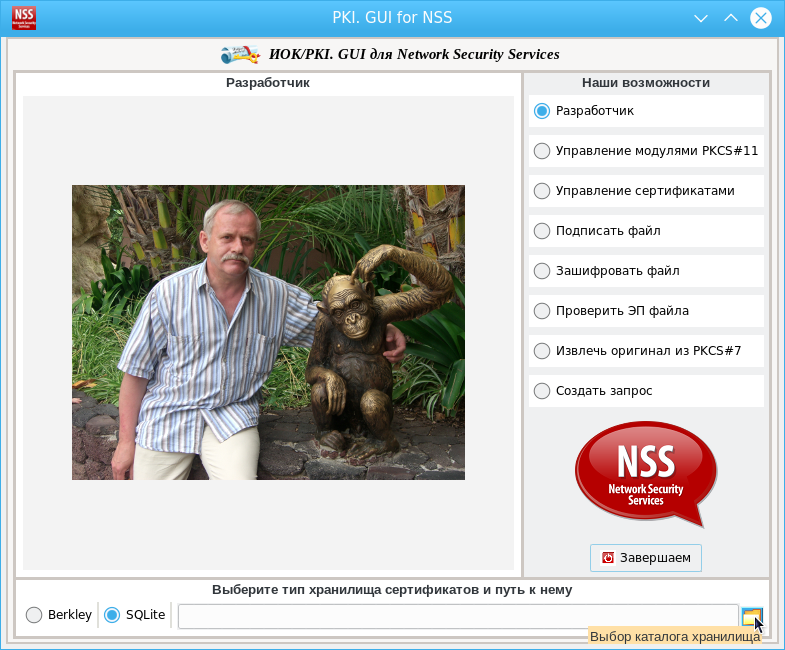
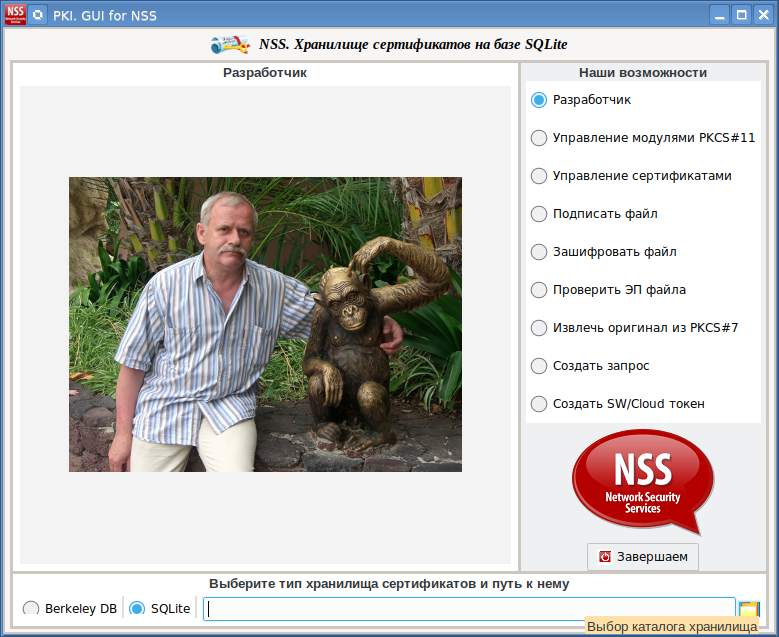
Add page for create softwate and cloud tokens GOST

diff --git a/source/guinsspy_support.py b/source/guinsspy_support.py
@@ -3,6 +3,8 @@
 
 import sys
 import os
+import webbrowser
+
 
 try:
     from Tkinter import *
@@ -328,6 +330,65 @@ M9nB9r5g/ETYxubMKwGuQddvIhwJsWYV4qV/ob38glsAPRh0qWKGpSnlykS6wE4mkXf9GSKx38cvnf3N
[3 lines of base64/hex data omitted]
+
+creator_small = """
[55 lines of base64/hex data omitted]
+B3RAB6CADr/wiOKD0OccCRhcCJjsB1LQAoEQfxNMBoGgCBg9CQEBADs=
+"""
 
 exit_16x16 = """
[1 lines of base64/hex data omitted]
@@ -6353,6 +6414,208 @@ def frameCertManager (frameManager):
 #    frameManager.ButtonViewCert.pack_forget()
     typeImportCert(0, frameManager)
 
+def readdistr(url, w):
+    print('readdistr=' + url)
+    pass
+
+def openURL(url):
+    webbrowser.open_new_tab(url)
+
+def seturl(txt, w, url, tag):
+#    print("seturl=" + url + tag )
+    if (txt.winfo_depth() > 1):
+        txt.tag_configure(tag, background = '#43ce80', relief='raised', borderwidth=1)
+    else:
+        txt.tag_configure(tag, background = 'black', foreground='white')
+    w.delete(0, END)
+    w.insert(END, url)
+
+def clearurl(txt, w, tag):
+#    print("clearurl=" + tag )
+#    w.delete(0, END)
+    if (txt.winfo_depth() > 1):
+        txt.tag_configure(tag, background = '', foreground='red', relief='flat', underline='on')
+    else:
+        txt.tag_configure(tag, background = '', foreground='')
+    pass
+
+def frameCreateToken(frameInfo):
+    global img_creator
+    global entryd
+
+    entryd = StringVar()
+    entryd.set = 'EntryD'
+    print ('frameCreateToken')
+    txt = Text(frameInfo, bg="white", wrap='word', padx='1mm', relief='flat', bd=0, highlightthickness=0,highlightbackground='white', highlightcolor='white')
+    vsb = ttk.Scrollbar(frameInfo, orient='vertical', command=txt.yview)
+    txt['yscrollcommand'] = vsb.set
+    vsb.pack(anchor='center',  expand=0, fill='y', side='right', pady='0 15mm')
+    txt.pack(anchor='n', expand=1, fill='both', side='top', pady='1mm 0')
+    lab = Entry(frameInfo, textvariable=entryd,highlightthickness=1,highlightbackground='skyblue', highlightcolor='skyblue')
+    lab.pack(side='top',pady=0,fill='x', expand=1, padx=0,anchor='center', ipady=2)
+    lab.insert(END, 'ENTRY')
+    txt.image_create("current", image=img_creator)
+    fbold = "-family Times -size 10 -weight bold -slant italic"
+    url={}
+    url['d1'] = "http://soft.lissi.ru/ls_product/skzi/PKCS11"
+    url['d2'] = "https://github.com/a513/GuiCreateLS11SW2016Token/raw/master/distr/guicreate_sw_token_linux32.tar.bz2"
+    url['d3'] = "https://github.com/a513/GuiCreateLS11SW2016Token/raw/master/distr/guicreate_sw_token_linux64.tar.bz2"
+    url['d4'] = "https://github.com/a513/GuiCreateLS11SW2016Token/raw/master/distr/guicreate_sw_token_mac.tar.bz2"
+    url['d5'] = "https://github.com/a513/GuiCreateLS11SW2016Token/raw/master/distr/guicreate_sw_token_win32.exe"
+    url['d6'] = "https://github.com/a513/GuiCreateLS11SW2016Token/raw/master/distr/guicreate_sw_token_win64.exe"
+    url['d7'] = "http://soft.lissi.ru/ls_product/skzi/LS11SW2016/"
+    url['d8'] = "http://soft.lissi.ru/solution/ls11cloud"
+    url['d9'] = "https://github.com/a513/guils11cloud_config/raw/master/distr/guils11cloud_conf_linux32.tar.bz2"
+    url['d10'] = "https://github.com/a513/guils11cloud_config/raw/master/distr/guils11cloud_conf_linux64.tar.bz2"
+    url['d11'] = "https://github.com/a513/guils11cloud_config/raw/master/distr/guils11cloud_conf_mac.tar.bz2"
+    url['d12'] = "https://github.com/a513/guils11cloud_config/raw/master/distr/guils11cloud_conf_win32.exe"
+    url['d13'] = "https://github.com/a513/guils11cloud_config/raw/master/distr/guils11cloud_conf_win64.exe"
+    url['d14'] = "https://github.com/a513/guils11cloud_config/raw/master/distr/AndroWishApp-debug.apk"
+    txt.tag_configure('tagLoad', foreground='blue', font='Times 11 bold italic')
+    txt.tag_configure('tagLoad1', foreground='blue', font='Times 10 bold italic')
+
+    for tag in  ['d1', 'd2', 'd3', 'd4', 'd5', 'd6', 'd7', 'd8', 'd9', 'd10', 'd11', 'd12', 'd13', 'd14']:
+#        print ('D=' + tag)
+        txt.tag_bind(tag, "<Any-Enter>", (lambda event, e=url[tag], tag1=tag: seturl(txt, lab, e, tag1)))
+        txt.tag_configure(tag, foreground='red', underline='on')
+        txt.tag_bind(tag, "<Any-Leave>", (lambda event, e=lab, tag1=tag: clearurl(txt, e, tag1)))
+#Запуск браузера
+        txt.tag_bind(tag, '<1>', (lambda event, e=url[tag]: openURL(e)))
+
+    its = txt.index('insert')
+    txt.insert (END,  "\t  Графическая оболочка для Network Security Services (NSS)\n\n")
+    ite = txt.index('insert')
+    txt.tag_add('tagLoad', its, ite)
+    txt.insert(END, "       Если вы хотите работать с российской криптографией и у вас нет \
+  соответствующего токена , не огорчайтесь. \
+  \n       Вы можете создать на своем компьютере программный токен LS11SW2016, либо подключиться к облачному \
+  токену LS11CLOUD с полной поддержкой российских криптоалгоритмом.\
+  \n       Это позволит вам не только обучиться, но и, при желании,  организовать Инфраструктуру Открытых Ключей \
+  (ИОК/PKI) в вашей организации или с коллегами")
+    txt.insert(END, "\n\n")
+    txt.insert(END, "1. Создание программного токена ")
+    its = txt.index('insert')
+    txt.insert(END, "LS11SW2016")
+    ite = txt.index('insert')
+    txt.tag_add('d1', its, ite)
+    txt.insert(END, " (утилита guicreate_sw_token)")
+    txt.insert(END, "\n\n")
+
+    its_sw = txt.index('insert')
+    txt.insert(END, "        Утилита guicreate_sw_token функционирует на ОС Linux, MS Windows, MacOS и др.")
+    ite_sw = txt.index('insert')
+    txt.tag_add('tagLoad1', its_sw, ite_sw)
+    txt.insert(END, "\n")
+    txt.insert(END, "        Загрузить дистрибутивыы для платформ Linux, MS Windows, OS X можно ")
+    its_sw1 = txt.index('insert')
+    txt.insert(END, 'здесь:' )
+    ite_sw1 = txt.index('insert')
+    txt.tag_add('tagLoad', its_sw1, ite_sw1)
+    txt.insert(END, "\n\t - ")
+
+    its_sw1 = txt.index('insert')
+    txt.insert(END, 'Linux32' )
+    ite_sw1 = txt.index('insert')
+    txt.tag_add('d2', its_sw1, ite_sw1)
+    txt.insert(END, "\n\t - ")
+
+    its_sw1 = txt.index('insert')
+    txt.insert(END, 'Linux64' )
+    ite_sw1 = txt.index('insert')
+    txt.tag_add('d3', its_sw1, ite_sw1)
+    txt.insert(END, "\n\t - ")
+
+    its_sw1 = txt.index('insert')
+    txt.insert(END, 'OS X' )
+    ite_sw1 = txt.index('insert')
+    txt.tag_add('d4', its_sw1, ite_sw1)
+    txt.insert(END, "\n\t - ")
+    its_sw1 = txt.index('insert')
+    txt.insert(END, 'WIN32' )
+    ite_sw1 = txt.index('insert')
+    txt.tag_add('d5', its_sw1, ite_sw1)
+    txt.insert(END, "\n\t - ")
+    its_sw1 = txt.index('insert')
+    txt.insert(END, 'WIN64' )
+    ite_sw1 = txt.index('insert')
+    txt.tag_add('d6', its_sw1, ite_sw1)
+    txt.insert(END, "\n")
+
+    txt.insert(END, "        При необходимости распакуйте дистрибутив и запустите его. В дальнейшем следуйте его подсказкам. \
+  Вы можете также воспользоваться ")
+
+    its_sw1 = txt.index('insert')
+    txt.insert(END, "инструкцией")
+    ite_sw1 = txt.index('insert')
+    txt.tag_add('d7', its_sw1, ite_sw1)
+    txt.insert(END, "\n")
+    its_sw1 = txt.index('insert')
+    txt.insert(END, "        P.S. На платформе Android программный токен создается автоматически при первом запуске приложения")
+    ite_sw1 = txt.index('insert')
+    txt.tag_add('tagLoad1', its_sw1, ite_sw1)
+    txt.insert(END, ".\n\n")
+
+    txt.insert(END, "2. Подключение к облачному токену ")
+    its1 = txt.index('insert')
+    txt.insert(END, "LS11Cloud")
+    ite1 = txt.index('insert')
+    txt.tag_add('d8', its1, ite1)
+    txt.insert(END, " (утилита guils11cloud_conf)")
+    txt.insert(END, "\n\n")
+
+    its_sw = txt.index('insert')
+    txt.insert(END, "        Утилита guils11cloud_conf функционирует на ОС Linux, MS Windows, MacOS, Android и др.")
+    ite_sw = txt.index('insert')
+    txt.tag_add('tagLoad1', its_sw, ite_sw)
+    txt.insert(END, "\n")
+    txt.insert(END, "        Загрузить дистрибутивыы для платформ Linux, MS Windows, OS X, Android можно ")
+    its_sw1 = txt.index('insert')
+    txt.insert(END, 'здесь:' )
+    ite_sw1 = txt.index('insert')
+    txt.tag_add('tagLoad', its_sw1, ite_sw1)
+    txt.insert(END, "\n\t - ")
+
+    its_sw1 = txt.index('insert')
+    txt.insert(END, 'Linux32' )
+    ite_sw1 = txt.index('insert')
+    txt.tag_add('d9', its_sw1, ite_sw1)
+    txt.insert(END, "\n\t - ")
+
+    its_sw1 = txt.index('insert')
+    txt.insert(END, 'Linux64' )
+    ite_sw1 = txt.index('insert')
+    txt.tag_add('d10', its_sw1, ite_sw1)
+    txt.insert(END, "\n\t - ")
+
+    its_sw1 = txt.index('insert')
+    txt.insert(END, 'OS X' )
+    ite_sw1 = txt.index('insert')
+    txt.tag_add('d11', its_sw1, ite_sw1)
+    txt.insert(END, "\n\t - ")
+    its_sw1 = txt.index('insert')
+    txt.insert(END, 'WIN32' )
+    ite_sw1 = txt.index('insert')
+    txt.tag_add('d12', its_sw1, ite_sw1)
+    txt.insert(END, "\n\t - ")
+    its_sw1 = txt.index('insert')
+    txt.insert(END, 'WIN64' )
+    ite_sw1 = txt.index('insert')
+    txt.tag_add('d13', its_sw1, ite_sw1)
+    txt.insert(END, "\n\t - ")
+    its_sw1 = txt.index('insert')
+    txt.insert(END, 'AndroWishApp-debug.apk' )
+    ite_sw1 = txt.index('insert')
+    txt.tag_add('d14', its_sw1, ite_sw1)
+    txt.insert(END, "\n")
+
+    txt.insert(END, "        При необходимости распакуйте дистрибутив и запустите его. В дальнейшем следуйте его подсказкам. \
+  Вы можете также воспользоваться ")
+    its_sw1 = txt.index('insert')
+    txt.insert(END, "инструкцией")
+    ite_sw1 = txt.index('insert')
+    txt.tag_add('d8', its_sw1, ite_sw1)
+    txt.insert(END, "\n")
+
 
 def frameCreateReq(frameRequest):
     frameRequest.Labelframe2 = LabelFrame(frameRequest, text='''Выберите токен для генерации ключа''',bd=0)
@@ -6704,7 +6967,9 @@ XJTADY/P33U5vd7S4+F+fH13goF8hnmEhwISGoImBB4OghsQLAsYLHAfAyUtKQ8ABQekpAYBCSItQQA7
     global updatecert
     global helpview
     global borderImage
-
+    global creator_small
+    global img_creator
+    
     varDB.set(1)
     varBut.set(0)
     lastBut.set(1)
@@ -6741,6 +7006,7 @@ XJTADY/P33U5vd7S4+F+fH13goF8hnmEhwISGoImBB4OghsQLAsYLHAfAyUtKQ8ABQekpAYBCSItQQA7
         img_opendb = ImageTk.PhotoImage(data=openDB_16x16)
         img_anketa = ImageTk.PhotoImage(data=anketa_34x50)
         img_exit = ImageTk.PhotoImage(data=exit_16x16)
+        img_creator = ImageTk.PhotoImage(data=creator_small)
     else:
         image_me = PhotoImage(data=me_393x295)
         image_nss = PhotoImage(data=nss_143x110)
@@ -6749,7 +7015,8 @@ XJTADY/P33U5vd7S4+F+fH13goF8hnmEhwISGoImBB4OghsQLAsYLHAfAyUtKQ8ABQekpAYBCSItQQA7
         img_opendb = PhotoImage(data=openDB_16x16)
         img_anketa = PhotoImage(data=anketa_34x50)
         img_exit = PhotoImage(data=exit_16x16)
-
+        img_creator = PhotoImage(data=creator_small)
+        
     borderImage = PhotoImage(data=borderImageData)
     viewcert = PhotoImage(data=view_18x16)
     selectdir = PhotoImage(data=icon_openfile_18x16)
@@ -6795,6 +7062,8 @@ XJTADY/P33U5vd7S4+F+fH13goF8hnmEhwISGoImBB4OghsQLAsYLHAfAyUtKQ8ABQekpAYBCSItQQA7
 #    frameSignFile(self1, self1.FrameRab[8], 3)
 #Создать запрос на сертификат
     frameCreateReq(self1.FrameRab[7])
+#Создать программный или облачный токен
+    frameCreateToken(self1.FrameRab[8])
     
 ###############    
     meLabel = Label(self1.FrameRab[0])

diff --git a/source/guinsspy.py b/source/guinsspy.py
@@ -413,7 +413,7 @@ class PKI__GUI_for_NSS:
 #RadioButton
         self.typeRab = ["Разработчик", "Управление модулями PKCS#11",
 	    "Управление сертификатами", "Подписать файл", "Зашифровать файл", 
-	    "Проверить ЭП файла", "Извлечь оригинал из PKCS#7", "Создать запрос"]
+	    "Проверить ЭП файла", "Извлечь оригинал из PKCS#7", "Создать запрос", "Создать SW/Cloud токен"]
         i = 0
         self.TButtonR = []
         count_rab = len(self.typeRab)
@@ -422,7 +422,7 @@ class PKI__GUI_for_NSS:
     	    self.TButtonRB.configure(text=self.typeRab[i])
     	    self.TButtonRB.configure(variable=guinsspy_support.varBut)
     	    self.TButtonRB.configure(value=i)
-    	    self.TButtonRB.pack(in_=self.Frame2,expand=1,fill='x',side= 'top', ipady=3,padx=5,pady=0)
+    	    self.TButtonRB.pack(in_=self.Frame2,expand=1,fill='x',side= 'top', ipady=6,padx=5,pady=0)
     	    self.TButtonRB.configure(command=guinsspy_support.ReloadNSS)
 #    	    self.TButtonRB.configure(state='disabled')
     	    self.TButtonR.append(self.TButtonRB)
